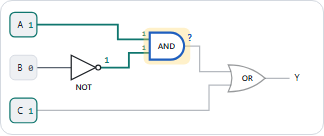
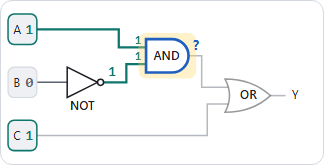
fix(circuit): text at least 12 px on phones via a compact layout (#90)
Technical Lead: L2 reviewed, UX approved, QA passed with independent measurement (>= 12.02 px), CI green. Closes #88.

diff --git a/e2e/smoke.spec.ts b/e2e/smoke.spec.ts
@@ -162,6 +162,34 @@ test("logic gates activity: walk the circuit gate by gate, then explore inputs",
   await expect(page.getByText("Question 2 of 2")).toBeVisible();
 });
 
+for (const width of [390, 320]) {
+  test(`circuit text stays at 12 px or more on a ${width} px phone, with the active gate in view`, async ({ page }) => {
+    await page.setViewportSize({ width, height: 844 });
+    await page.goto("/courses/ecet111/logic-gates/predict-gate-output/");
+    await page.getByLabel("1", { exact: true }).check();
+    await page.getByRole("button", { name: "Check" }).click();
+    await expect(page.getByText("Gate 2 of 3: AND")).toBeVisible();
+    await expect(page.locator("[data-active]")).toBeInViewport({ ratio: 1 });
+    const report = await page.evaluate(() => {
+      const box = document.querySelector("[data-diagram]")!;
+      const svg = box.querySelector("svg")!;
+      const scale = svg.getBoundingClientRect().width / svg.viewBox.baseVal.width;
+      const sizes = [...svg.querySelectorAll("text")].map((t) => parseFloat(getComputedStyle(t).fontSize) * scale);
+      return {
+        smallest: Math.min(...sizes),
+        count: sizes.length,
+        boxOverflow: box.scrollWidth - box.clientWidth,
+        pageOverflow: document.documentElement.scrollWidth - document.documentElement.clientWidth,
+      };
+    });
+    expect(report.count).toBeGreaterThan(8);
+    expect(report.smallest).toBeGreaterThanOrEqual(12);
+    expect(report.pageOverflow).toBeLessThanOrEqual(0);
+    // the whole circuit fits at 390 px; at 320 px it scrolls inside its own box
+    if (width === 390) expect(report.boxOverflow).toBeLessThanOrEqual(0);
+  });
+}
+
 test("settings: clear local data resets progress", async ({ page }) => {
   await page.goto(ACTIVITY);
   await expect(page.getByTestId("learning-stage")).toBeVisible();

diff --git a/src/interactions/CircuitDiagram/CircuitDiagram.tsx b/src/interactions/CircuitDiagram/CircuitDiagram.tsx
@@ -26,8 +26,12 @@ export interface CircuitDiagramProps {
   disabled?: boolean;
 }
 
-/** Smallest rendered scale (docs/DESIGN_SYSTEM.md): a three-column circuit fits a 390 px phone; below that the box scrolls sideways. */
-const MIN_SCALE = 0.6;
+/**
+ * Smallest rendered scale. All diagram text is 16 units or more, so at 0.75x it is still 12 px:
+ * the layout is compact enough for a three-column circuit to fit a 390 px phone at that scale.
+ * Narrower than that, the box scrolls sideways instead of shrinking the text.
+ */
+const MIN_SCALE = 0.75;
 
 /**
  * Small SVG circuit (up to 3 inputs, 4 gates) drawn like a textbook schematic: standard gate
@@ -134,10 +138,10 @@ export function CircuitDiagram({ id, spec, inputs, onToggleInput, lit = [], acti
             >
               {toggleable && <rect x="-12" y="-12" width={INPUT_W + 24} height={INPUT_H + 24} className={styles.hitArea} />}
               <rect width={INPUT_W} height={INPUT_H} rx="8" className={styles.inputBox} />
-              <text x="12" y="25" className={styles.label}>
+              <text x="7" y="26" className={styles.label}>
                 {inp.label}
               </text>
-              <text x="30" y="25" className={`${styles.value} ${v === 1 ? styles.valueHigh : styles.valueLow} mono`}>
+              <text x="23" y="26" className={`${styles.value} ${v === 1 ? styles.valueHigh : styles.valueLow} mono`}>
                 {v}
               </text>
             </g>

diff --git a/src/interactions/CircuitDiagram/layout.ts b/src/interactions/CircuitDiagram/layout.ts
@@ -32,17 +32,17 @@ export interface CircuitLayout {
 }
 
 export const GATE_H = 44;
-export const INPUT_W = 44;
+export const INPUT_W = 38;
 export const INPUT_H = 40;
-const INPUT_X = 8;
+const INPUT_X = 4;
 const ROW_H = 70;
-const COL_X0 = 108;
-const COL_W = 128;
+const COL_X0 = 82;
+const COL_W = 104;
 const PIN_DY = 11;
 const MIN_GATE_GAP = 64;
 /** A horizontal wire closer than this to a gate centre line would run through its body or label. */
 const BODY_CLEARANCE = 40;
-const OUTPUT_STUB = 40;
+const OUTPUT_STUB = 20;
 
 /** Distance from the left edge of the body to its output tip (bubble included). */
 export function gateWidth(type: GateType): number {
@@ -191,7 +191,7 @@ export function layoutCircuit(spec: CircuitSpec): CircuitLayout {
   ];
   const top = Math.min(...ys) - 12;
   const bottom = Math.max(...ys) + 12;
-  const right = Math.max(output.to.x + 48, ...spec.gates.map((g) => gates[g.id].x + gateWidth(g.type) + 28));
+  const right = Math.max(output.to.x + 44, ...spec.gates.map((g) => gates[g.id].x + gateWidth(g.type) + 28));
 
   return {
     viewBox: { x: 0, y: top, width: right, height: bottom - top },

diff --git a/src/interactions/CircuitDiagram/CircuitDiagram.module.css b/src/interactions/CircuitDiagram/CircuitDiagram.module.css
@@ -14,7 +14,7 @@
   height: auto;
   display: block;
   font-family: var(--font-sans);
-  font-size: 15px;
+  font-size: 16px;
 }
 
 .root[data-fade="end"] {
@@ -105,7 +105,6 @@
   fill: var(--text);
 }
 
-/* Values are the thing to read: larger than labels so they survive the 0.6x phone scale. */
 .value {
   font-size: 18px;
   font-weight: 700;
@@ -147,7 +146,7 @@
 
 .gateLabel {
   fill: var(--text);
-  font-size: 13px;
+  font-size: 16px;
   font-weight: 600;
   pointer-events: none;
 }

diff --git a/src/styles/tokens.css b/src/styles/tokens.css
@@ -25,6 +25,8 @@
   --radius-lg: 12px;
   --content-max: 1100px;
   --touch-min: 44px;
+  /* floor for text inside SVG diagrams, as rendered on screen (CircuitDiagram MIN_SCALE = 12 / 16) */
+  --diagram-text-min: 12px;
   --topbar-h: 52px;
   --tutor-strip-h: 64px;
   /* scroll-padding-top, so focus and highlight scrolling never lands under sticky UI */

diff --git a/agents/state/frontend_interaction_engineer.md b/agents/state/frontend_interaction_engineer.md
@@ -1,8 +1,8 @@
 # Current State — Frontend / Interaction Engineer
 
-Current assignment: PR #73 (#32 gate walk + #52 circuit fit) rebased on main after #62, awaiting review/QA; PR #87 (#54 tutor strip, never clamp unread text) back with QA.
-Recent important decision: ADR-0007 step contract lives in `src/content/steps.ts` (created in #73). Tutor strip collapses only when a message is stale; user scroll only (not programmatic).
+Current assignment: PR for #88 (circuit text >= 12 px on phones, compact layout) in review; PR #87 (#54 tutor strip) with QA.
+Recent important decision: Diagram text is 16 units with a 0.75x scale floor (12 px); fit phones by compacting the layout, then scroll inside the box. Step contract is `src/content/steps.ts` (ADR-0007).
 Blocker: None
-Relevant issue/PR: #73, #87
+Relevant issue/PR: #88, #87; #73 merged (#32, #52).
 Wake me: `npm run alarm frontend-interaction-engineer <#> "<reason>" <your-role>` (label `wake:frontend`).
-Next expected action: #44 octal/hex grouping as two step kinds (after #73 merges, uses steps.ts); then #34/#36 when ready; #56, #57 (M1.2 backlog).
+Next expected action: #44 octal/hex grouping as two step kinds (uses steps.ts); then #34/#36 when ready; #56, #57 (M1.2 backlog).

diff --git a/src/interactions/CircuitDiagram/README.md b/src/interactions/CircuitDiagram/README.md
@@ -23,6 +23,7 @@ drawn like a textbook schematic: standard gate symbols, one pin per gate input, 
   channel, so wires of different signals never share a segment; a signal that feeds two gates
   shows a junction dot; a wire that would pass through a gate is moved to a free lane.
   `layout.test.ts` asserts these rules on several circuits.
-- The SVG scales with its box down to 0.6× (a three-column circuit fits a 390 px phone). Below
-  that the box scrolls sideways, fades the hidden edge(s), becomes keyboard-focusable and keeps the
-  active gate in view. Toggleable inputs have an enlarged hit area.
+- Text never renders below 12 px: all diagram text is 16 units and the SVG scales with its box
+  down to 0.75× only. The layout is compact so a three-column circuit fits a 390 px phone at that
+  scale. Narrower, the box scrolls sideways, fades the hidden edge(s), becomes keyboard-focusable
+  and keeps the active gate in view. Toggleable inputs have an enlarged hit area.
